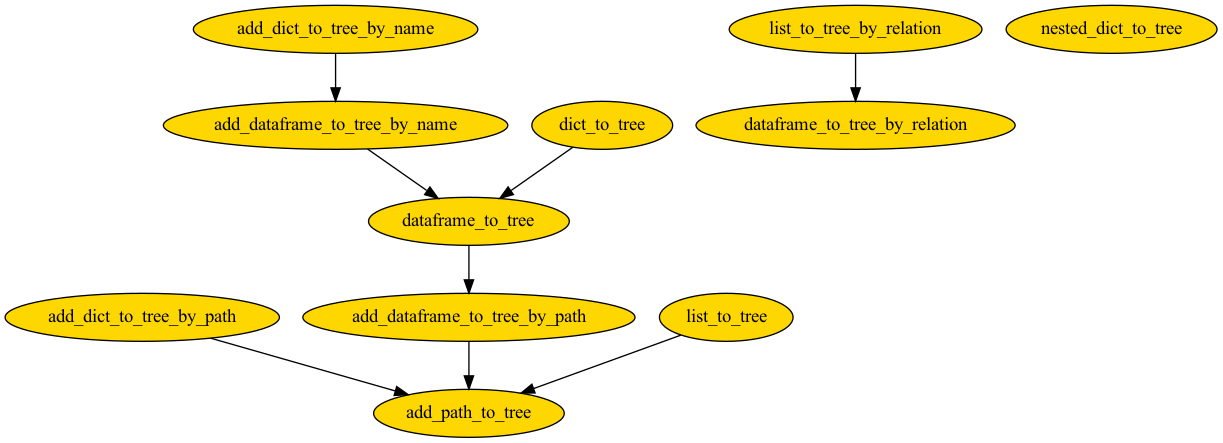
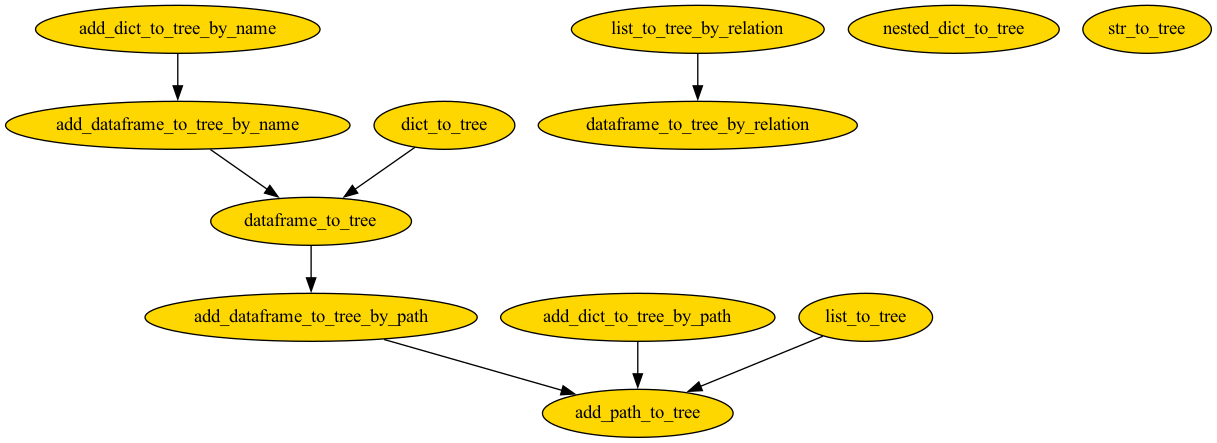
v0.6.9 add str_to_tree method, add keywords to bigtree package, modify docs

diff --git a/tests/tree/test_construct.py b/tests/tree/test_construct.py
@@ -16,6 +16,7 @@ from bigtree.tree.construct import (
     list_to_tree,
     list_to_tree_by_relation,
     nested_dict_to_tree,
+    str_to_tree,
 )
 from bigtree.tree.export import print_tree
 from bigtree.tree.search import find_name, find_names
@@ -842,6 +843,59 @@ class TestAddDataFrameToTreeByName(unittest.TestCase):
         root = add_dataframe_to_tree_by_name(root, self.data)
         assert_tree_structure_basenode_root_generic(root)
         assert_tree_structure_basenode_root_attr(root, h=("f", 38))
+
+
+class TestStrToTree(unittest.TestCase):
+    def setUp(self):
+        """
+        Tree should have structure
+        a
+        |-- b
+        |   |-- d
+        |   +-- e
+        |       |-- g
+        |       +-- h
+        +-- c
+            +-- f
+        """
+        self.tree_str = "a\n├── b\n│   ├── d\n│   └── e\n│       ├── g\n│       └── h\n└── c\n    └── f"
+
+    def test_str_to_tree(self):
+        root = str_to_tree(self.tree_str)
+        assert_tree_structure_basenode_root_generic(root)
+        assert_tree_structure_node_root_generic(root)
+
+    def test_empty_string(self):
+        with pytest.raises(ValueError) as exc_info:
+            str_to_tree("")
+        assert (
+            str(exc_info.value)
+            == "Tree string does not contain any data, check `tree_string`"
+        )
+
+    def test_empty_newline_string(self):
+        with pytest.raises(ValueError) as exc_info:
+            str_to_tree("\n\n")
+        assert (
+            str(exc_info.value)
+            == "Tree string does not contain any data, check `tree_string`"
+        )
+
+    def test_invalid_prefix(self):
+        tree_str = "a\n|-- b\n|   |-- d\n|   +-- e\n|       |-- g\n|       +-- h\n+-- c\n    +-- f"
+        with pytest.raises(ValueError) as exc_info:
+            str_to_tree(tree_str)
+        assert str(exc_info.value).startswith(
+            "Invalid prefix, prefix should be unicode character or whitespace"
+        )
+
+    def test_unequal_prefix_length(self):
+        tree_str = "a\n├── b\n│  ├── d\n│   └── e\n│       ├── g\n│       └── h\n└── c\n    └── f"
+        with pytest.raises(ValueError) as exc_info:
+            str_to_tree(tree_str)
+        assert str(exc_info.value).startswith(
+            "Tree string have different prefix length, check branch"
+        )
 
 
 class TestListToTree(unittest.TestCase):

diff --git a/bigtree/tree/construct.py b/bigtree/tree/construct.py
@@ -15,6 +15,7 @@ __all__ = [
     "add_dict_to_tree_by_name",
     "add_dataframe_to_tree_by_path",
     "add_dataframe_to_tree_by_name",
+    "str_to_tree",
     "list_to_tree",
     "list_to_tree_by_relation",
     "dict_to_tree",
@@ -404,6 +405,67 @@ def add_dataframe_to_tree_by_name(
     return dataframe_to_tree(
         data_tree_attrs, path_col=path_col, sep=sep, node_type=node_type
     )
+
+
+def str_to_tree(
+    tree_string: str,
+    node_type: Type[Node] = Node,
+) -> Node:
+    r"""Construct tree from tree string
+
+    >>> from bigtree import str_to_tree, print_tree
+    >>> tree_str = 'a\n├── b\n│   ├── d\n│   └── e\n│       ├── g\n│       └── h\n└── c\n    └── f'
+    >>> root = str_to_tree(tree_str)
+    >>> print_tree(root)
+    a
+    ├── b
+    │   ├── d
+    │   └── e
+    │       ├── g
+    │       └── h
+    └── c
+        └── f
+
+    Args:
+        tree_string (str): String to construct tree
+        node_type (Type[Node]): node type of tree to be created, defaults to Node
+
+    Returns:
+        (Node)
+    """
+    tree_string = tree_string.strip("\n")
+    if not len(tree_string):
+        raise ValueError("Tree string does not contain any data, check `tree_string`")
+    tree_list = tree_string.split("\n")
+    tree_root = node_type(tree_list[0])
+
+    # Infer prefix length
+    prefix_length = None
+    cur_parent = tree_root
+    for node_str in tree_list[1:]:
+        node_name = node_str.encode("ascii", "ignore").decode("ascii").lstrip()
+
+        # Find node parent
+        if not prefix_length:
+            prefix_length = node_str.index(node_name)
+            if not prefix_length:
+                raise ValueError(
+                    f"Invalid prefix, prefix should be unicode character or whitespace, check: {node_str}"
+                )
+        node_prefix = node_str.index(node_name)
+        if node_prefix % prefix_length:
+            raise ValueError(
+                f"Tree string have different prefix length, check branch: {node_str}"
+            )
+        while cur_parent.depth > node_prefix / prefix_length:
+            cur_parent = cur_parent.parent
+
+        # Link node
+        child_node = node_type(node_name)
+        child_node.parent = cur_parent
+        cur_parent = child_node
+
+    return tree_root
 
 
 def list_to_tree(

diff --git a/bigtree/__init__.py b/bigtree/__init__.py
@@ -1,4 +1,4 @@
-__version__ = "0.6.8"
+__version__ = "0.6.9"
 
 from bigtree.binarytree.construct import list_to_binarytree
 from bigtree.dag.construct import dataframe_to_dag, dict_to_dag, list_to_dag
@@ -19,6 +19,7 @@ from bigtree.tree.construct import (
     list_to_tree,
     list_to_tree_by_relation,
     nested_dict_to_tree,
+    str_to_tree,
 )
 from bigtree.tree.export import (
     print_tree,

diff --git a/CHANGELOG.md b/CHANGELOG.md
@@ -4,6 +4,10 @@ All notable changes to this project will be documented in this file.
 The format is based on [Keep a Changelog](https://keepachangelog.com/en/1.0.0/),
 and this project adheres to [Semantic Versioning](https://semver.org/spec/v2.0.0.html).
 
+## [0.6.9] - 2023-01-22
+### Added
+- Tree Construct: `str_to_tree` to construct tree from tree string.
+
 ## [0.6.8] - 2023-01-14
 ### Fixed
 - Tree Exporter: `tree_to_dot` to perform dictionary copy to prevent style from being overridden for child nodes.
@@ -173,6 +177,7 @@ and this project adheres to [Semantic Versioning](https://semver.org/spec/v2.0.0
 - Utility Iterator: Tree traversal methods.
 - Workflow To Do App: Tree use case with to-do list implementation.
 
+[0.6.9]: https://github.com/kayjan/bigtree/compare/v0.6.8...v0.6.9
 [0.6.8]: https://github.com/kayjan/bigtree/compare/v0.6.7...v0.6.8
 [0.6.7]: https://github.com/kayjan/bigtree/compare/v0.6.6...v0.6.7
 [0.6.6]: https://github.com/kayjan/bigtree/compare/v0.6.5...v0.6.6

diff --git a/docs/source/bigtree/tree/construct.rst b/docs/source/bigtree/tree/construct.rst
@@ -13,6 +13,10 @@ To decide which method to use, consider your data type and data values.
      - Using full path
      - Using parent-child relation
      - Add node attributes
+   * - String
+     - `str_to_tree`
+     - NA
+     - No
    * - List
      - `list_to_tree`
      - `list_to_tree_by_relation`
